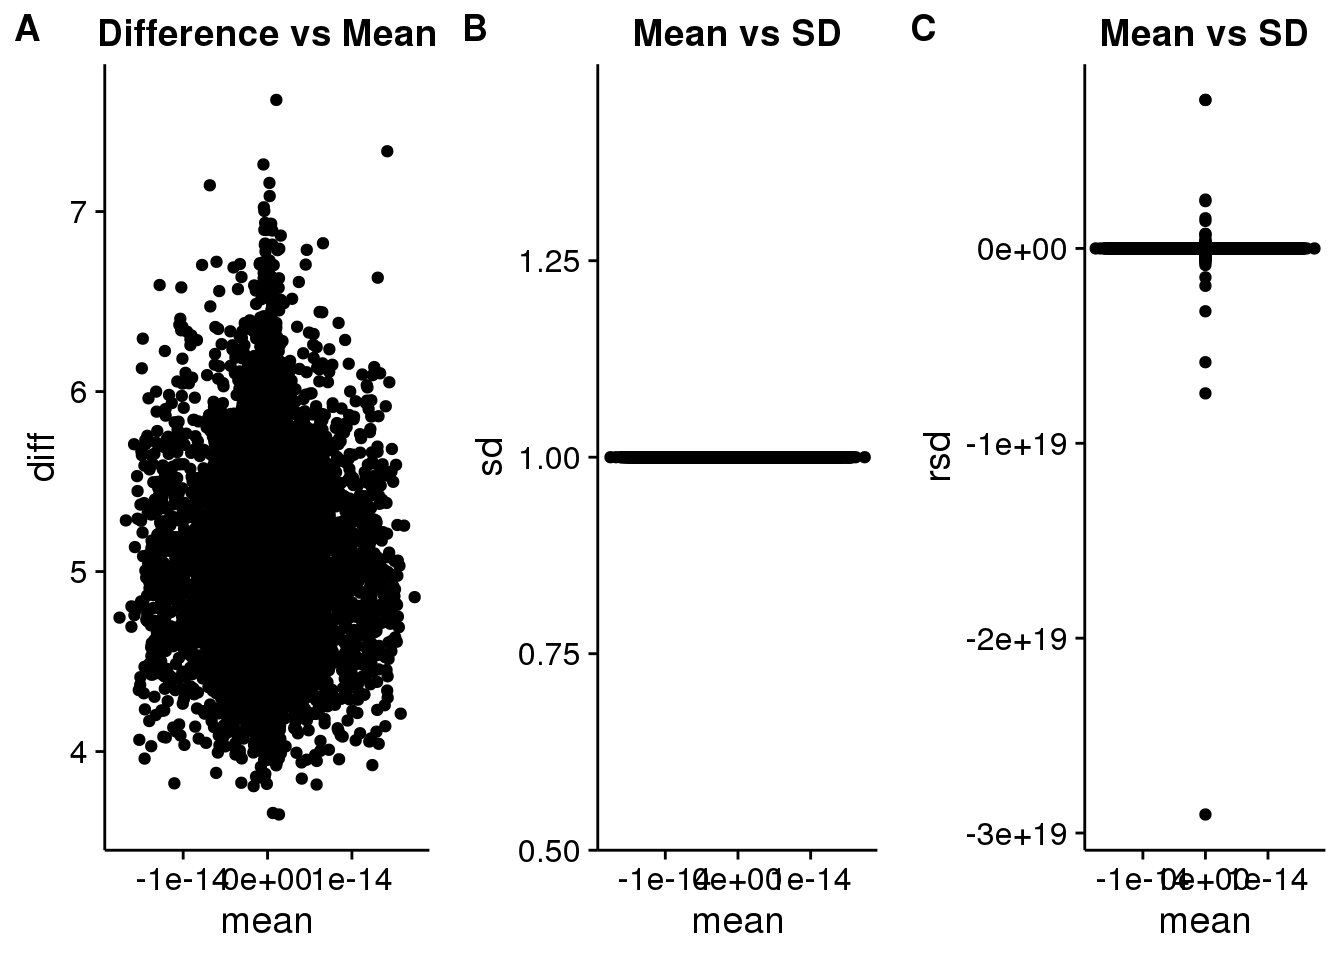
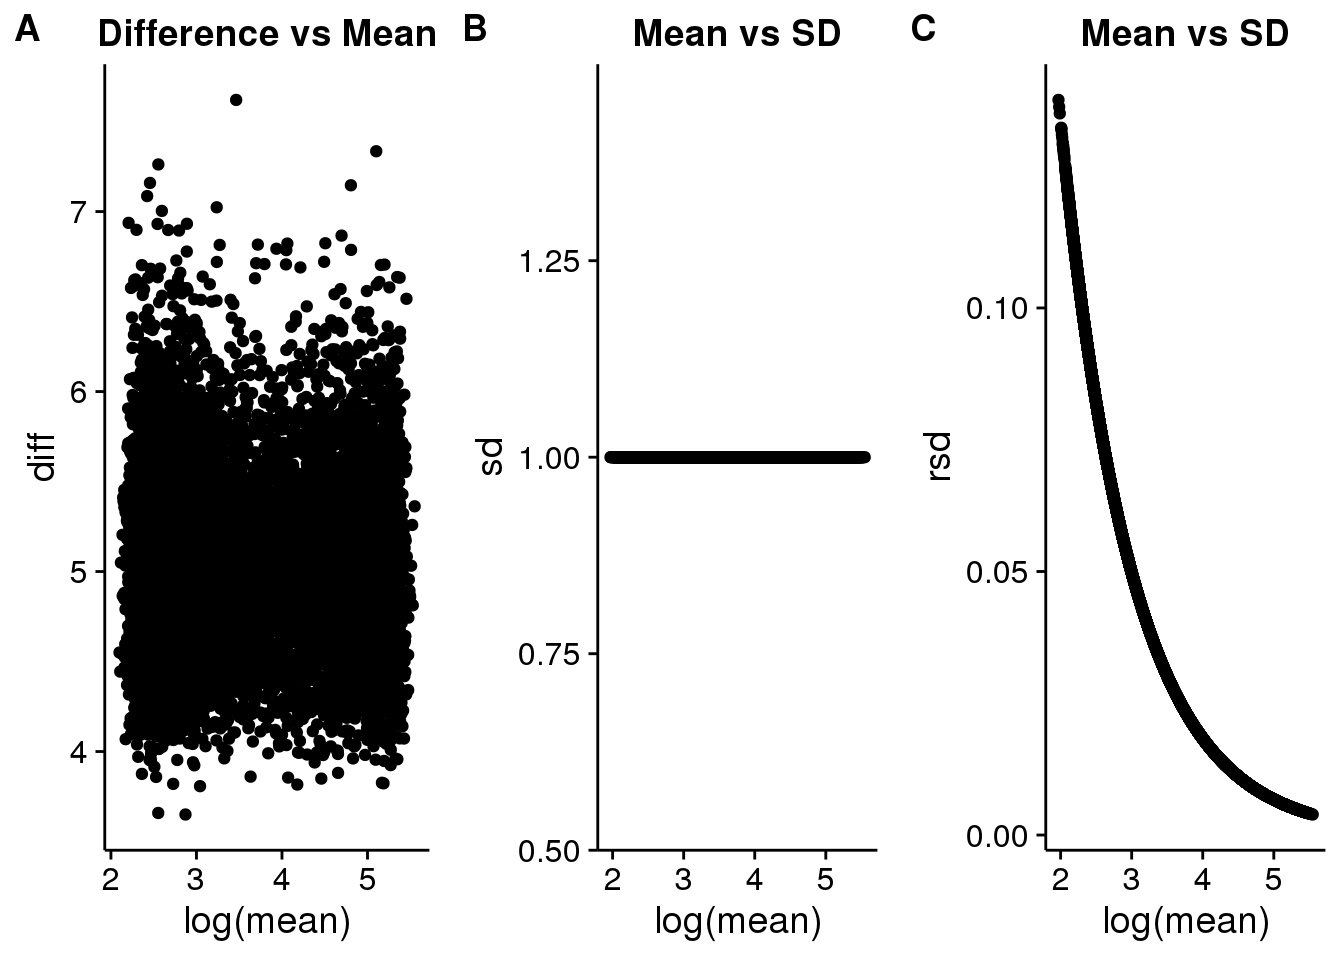
new render without subtracting the mean

diff --git a/glbio2016_manuscript.knit.md b/glbio2016_manuscript.knit.md
@@ -1,8 +1,8 @@
 ---
 title: "Visualizing Effect of Data Transformations on Errors"
 author: "Robert M Flight"
-date: "2016-01-18 21:49:31"
-commit: "dba40017"
+date: "2016-01-19 13:01:47"
+commit: "505fb1e0"
 output: html_document
 ---
 
@@ -222,7 +222,7 @@ a higher root may be useful.
 ##  language (EN)                        
 ##  collate  en_US.UTF-8                 
 ##  tz       America/New_York            
-##  date     2016-01-18
+##  date     2016-01-19
 ```
 
 
